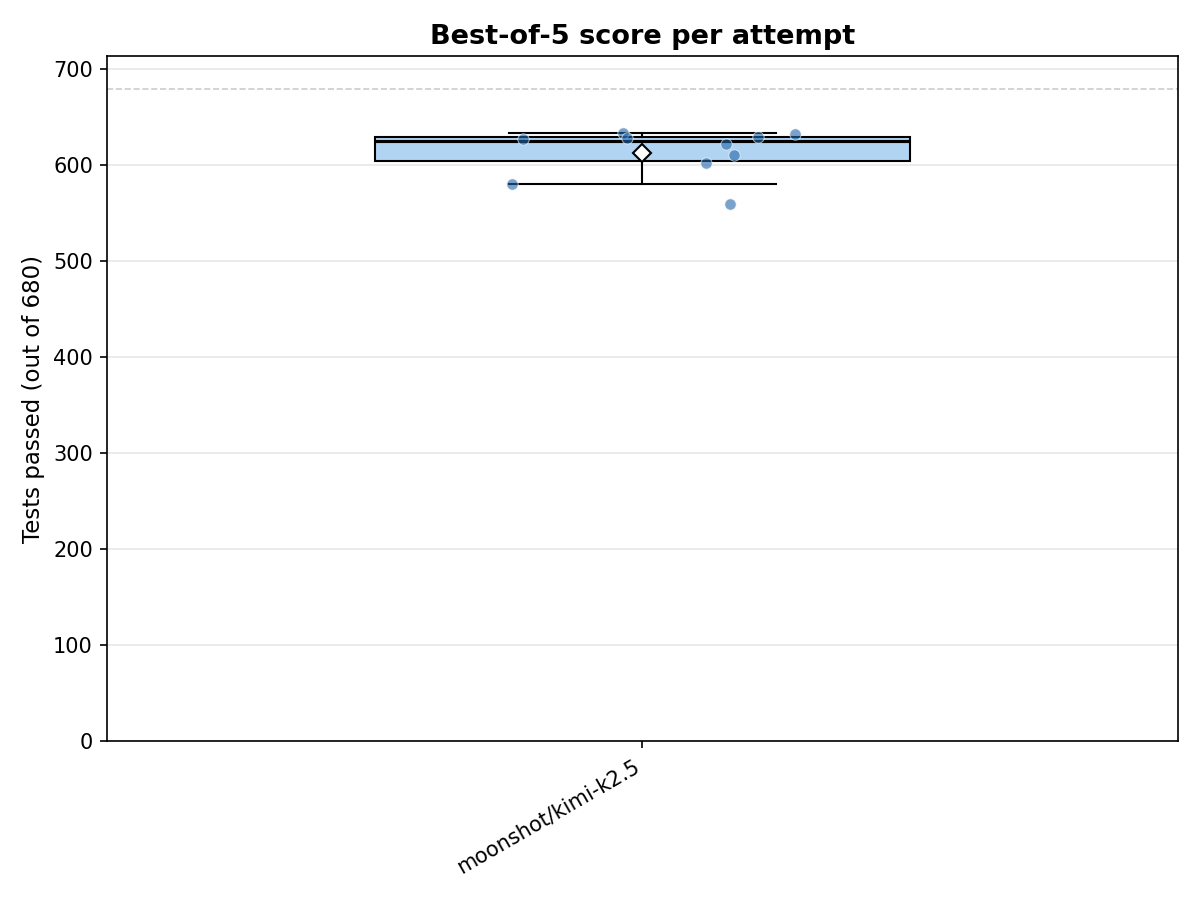
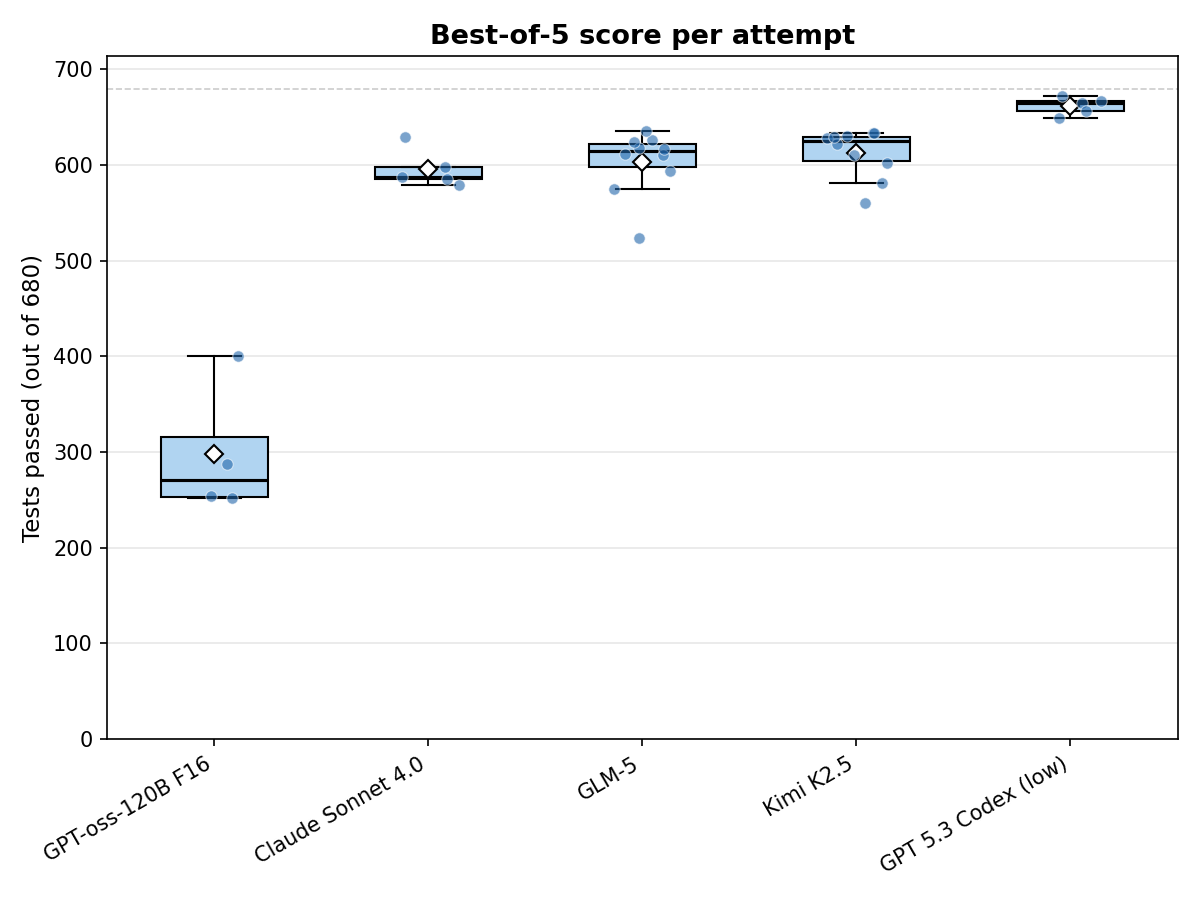
Add new model results, regenerate summaries and charts
## New data collected

### toml-1.0-cpp (678 tests) — 2 new models
- Kimi K2.5: 10 attempts, best-of-5 avg 622.0/678 (91.7%) — top performer
- MiniMax M2.5: 10 attempts, best-of-5 avg 508.4/678 (75.0%)
  (GLM-5 and Claude Sonnet 4.0 were already tracked)

### toml-1.1-cpp (680 tests) — 4 new models
- Claude Sonnet 4.0: 5 attempts, best-of-5 avg 595.8/680 (87.6%)
- GLM-5: 10 attempts, best-of-5 avg 603.6/680 (88.8%)
- GPT 5.3 Codex (low): 5 attempts, best-of-5 avg 662.0/680 (97.4%)
- GPT-oss-120B F16: 4 attempts, best-of-5 avg 298.5/680 (43.9%)
  (Kimi K2.5 was already tracked)

### toml-1.0-c (678 tests) — first result
- GPT 5.3 Codex (high): 1 attempt, 678/678 (100%) best-of-5
  Perfect score on C11 variant — manual memory management didn't
  reduce accuracy for this model.

## Chart/script changes

- Regenerated results/toml-1.0-cpp/chart.png (now 4 models)
- Regenerated results/toml-1.1-cpp/chart.png (now 5 models)
- Generated results/comparison.png (1.0 vs 1.1 side-by-side)
- Updated plot_comparison.py MODEL_CONFIG:
  - Renamed "GPT Codex 5.3" → "GPT 5.3 Codex" to match summary labels
  - Added GPT-oss-120B F16 as "local" category
- Generated summary.txt files for all three tasks

## Key observations

- GLM-5 on 1.0-cpp has high variance: 3/10 attempts scored 0 (likely
  compilation failures on first turn that never recover), while
  successful attempts reach 583–647
- GPT 5.3 Codex dominates both tasks; even at "low" reasoning effort
[…]

diff --git a/plot_comparison.py b/plot_comparison.py
@@ -14,15 +14,16 @@ from plot_results import parse_summary
 # Model display order and category assignment.
 # Categories: "proprietary" (closed-weight), "api" (open-weight via API), "local" (GGUF/local)
 MODEL_CONFIG = OrderedDict([
-    ("GPT Codex 5.3 (high)", "proprietary"),
-    ("GPT Codex 5.3 (low)",  "proprietary"),
+    ("GPT 5.3 Codex (high)", "proprietary"),
+    ("GPT 5.3 Codex (low)",  "proprietary"),
     ("Claude Opus 4.6",      "proprietary"),
     ("Claude Sonnet 4.0",    "proprietary"),
     ("GLM-5",                "api"),
     ("Kimi K2.5",            "api"),
     ("MiniMax M2.5",         "api"),
     ("Devstral",             "api"),
-    ("Qwen3.5-122B Q8",     "local"),
+    ("GPT-oss-120B F16",     "local"),
+    ("Qwen3.5-122B Q8",      "local"),
 ])
 
 CATEGORY_COLORS = {
